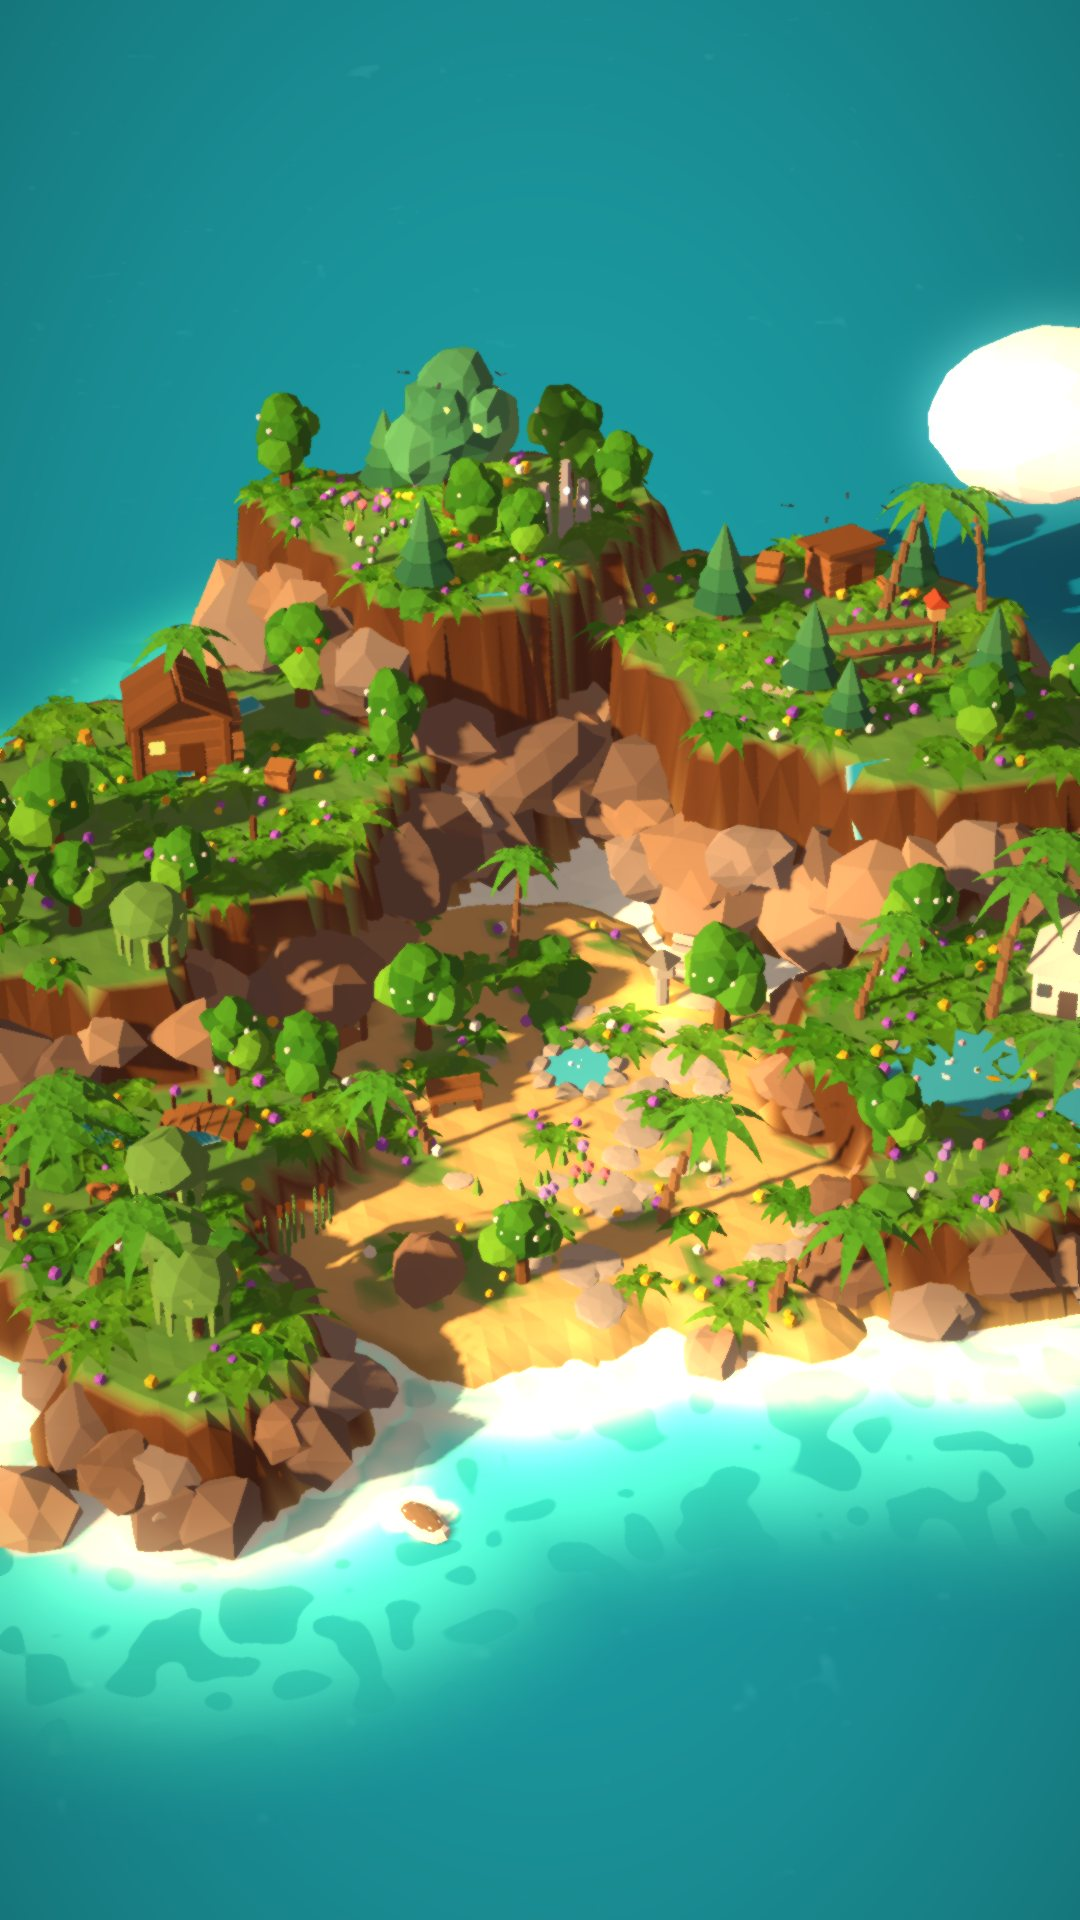
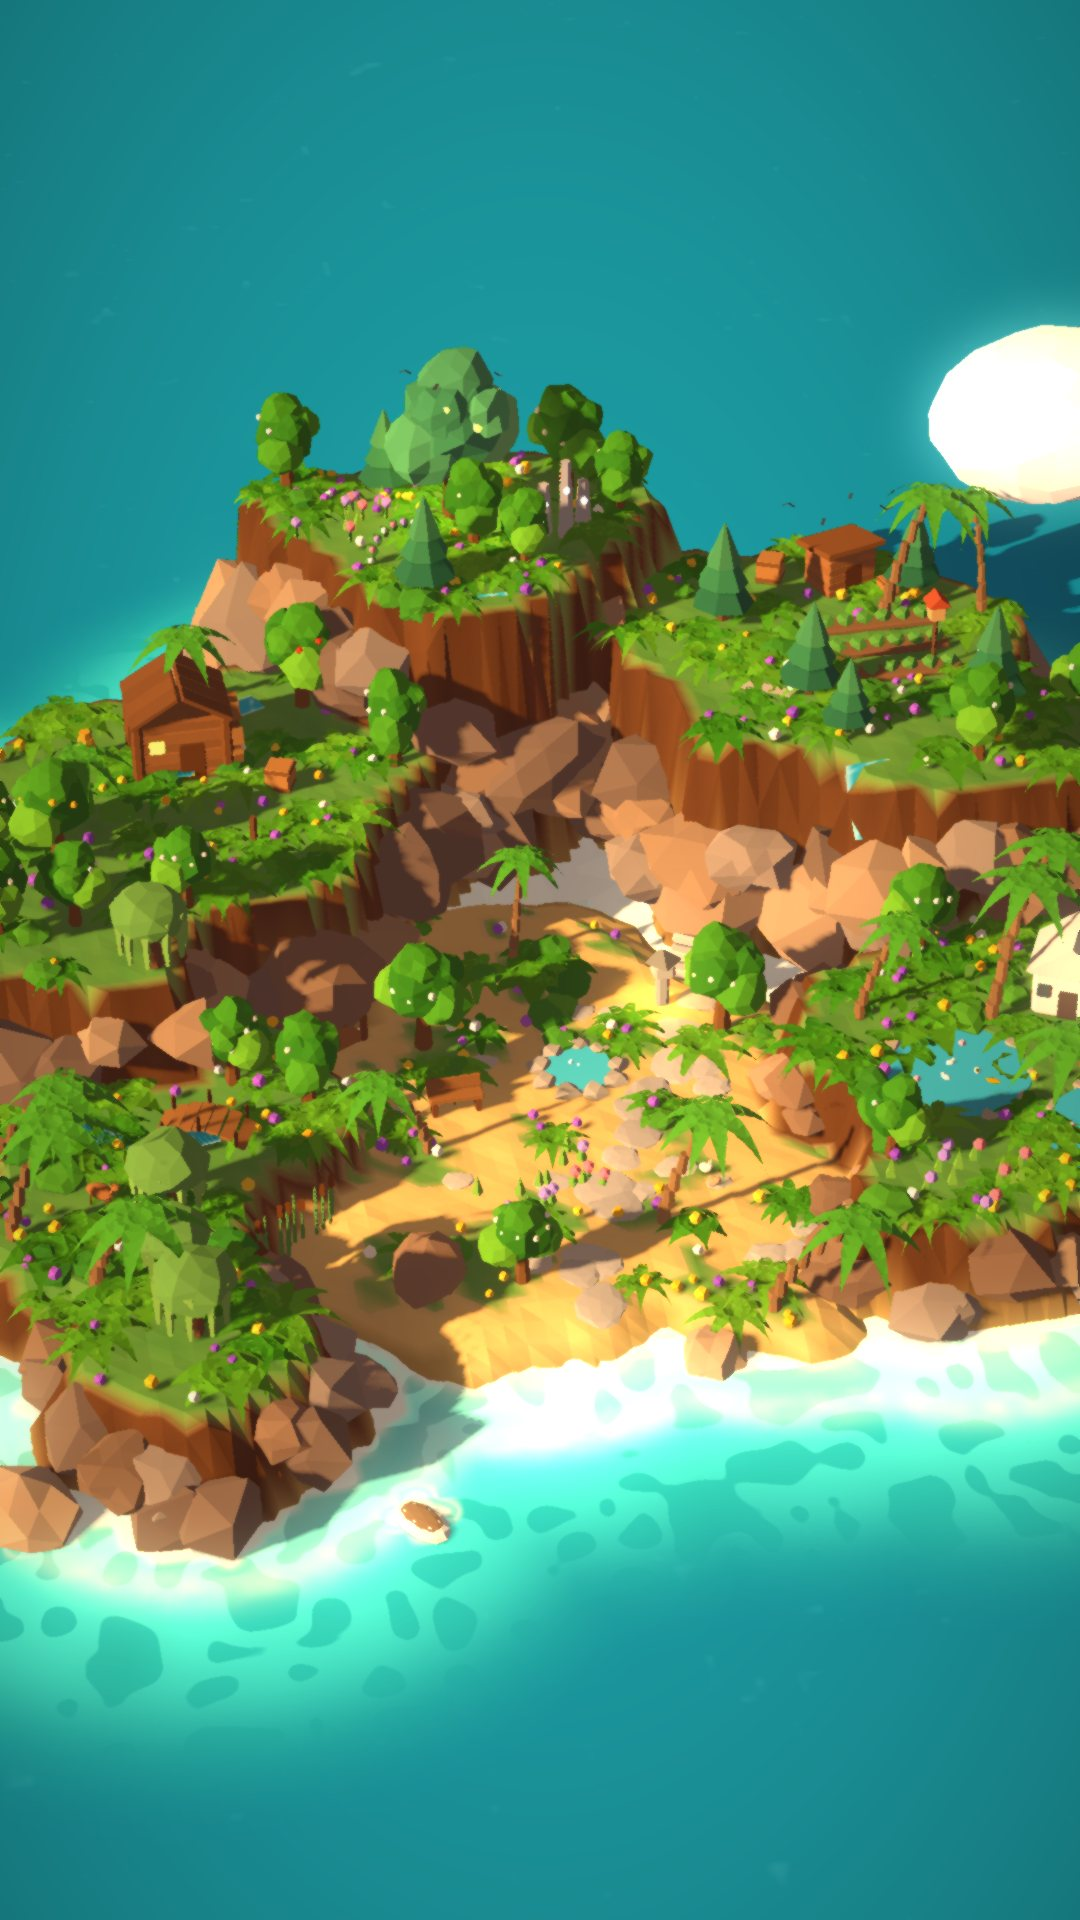
Loading screen: a tour of all six islands
- Six paintings: Verdant Isle from the 3D island and one per archipelago
  island rendered from its real game board on its own sky
  (tools/render_key_art.gd + paint_key_art.py), with each island's name,
  line and numeral; tips for every game and for cloud save.
- Cloud: a proxy error page no longer logs a JSON parse error.

Claude-Session: https://claude.ai/code/session_01CttNLynaNGrVuwvsXVqQ9j

Changed region(s): [[0.0, 0.6875, 1.0, 0.875], [0.2139, 0.375, 0.2444, 0.4062]]

diff --git a/tools/paint_key_art.py b/tools/paint_key_art.py
@@ -16,14 +16,19 @@ from PIL import Image, ImageFilter
 ROOT = os.path.dirname(os.path.dirname(os.path.abspath(__file__)))
 OUT = os.path.join(ROOT, "assets", "branding")
 
-# Order on the loading screen (loading_1 ... loading_4).
-SHOTS = ["dawn", "glade", "falls", "ponds"]
+# Order on the loading screen (loading_1 ... loading_6): Verdant Isle, then the five islands.
+SHOTS = ["dawn", "ember", "lantern", "steps", "rope", "grove"]
 LOOK = {
     #          warm   bloom  sat   vignette  lift (shadow tint)
     "dawn":  (0.16, 0.38, 1.06, 0.38, (0.10, 0.05, 0.08)),
     "glade": (0.06, 0.28, 1.08, 0.32, (0.02, 0.05, 0.08)),
     "falls": (0.08, 0.30, 1.06, 0.34, (0.03, 0.05, 0.08)),
     "ponds": (0.10, 0.32, 1.07, 0.34, (0.04, 0.05, 0.08)),
+    "ember": (0.18, 0.40, 1.08, 0.40, (0.10, 0.03, 0.05)),
+    "lantern": (0.04, 0.46, 1.04, 0.42, (0.02, 0.03, 0.10)),
+    "steps": (0.08, 0.26, 1.05, 0.32, (0.04, 0.06, 0.04)),
+    "rope": (0.06, 0.30, 1.08, 0.32, (0.02, 0.05, 0.08)),
+    "grove": (0.02, 0.44, 1.06, 0.42, (0.06, 0.03, 0.10)),
 }
 
 
